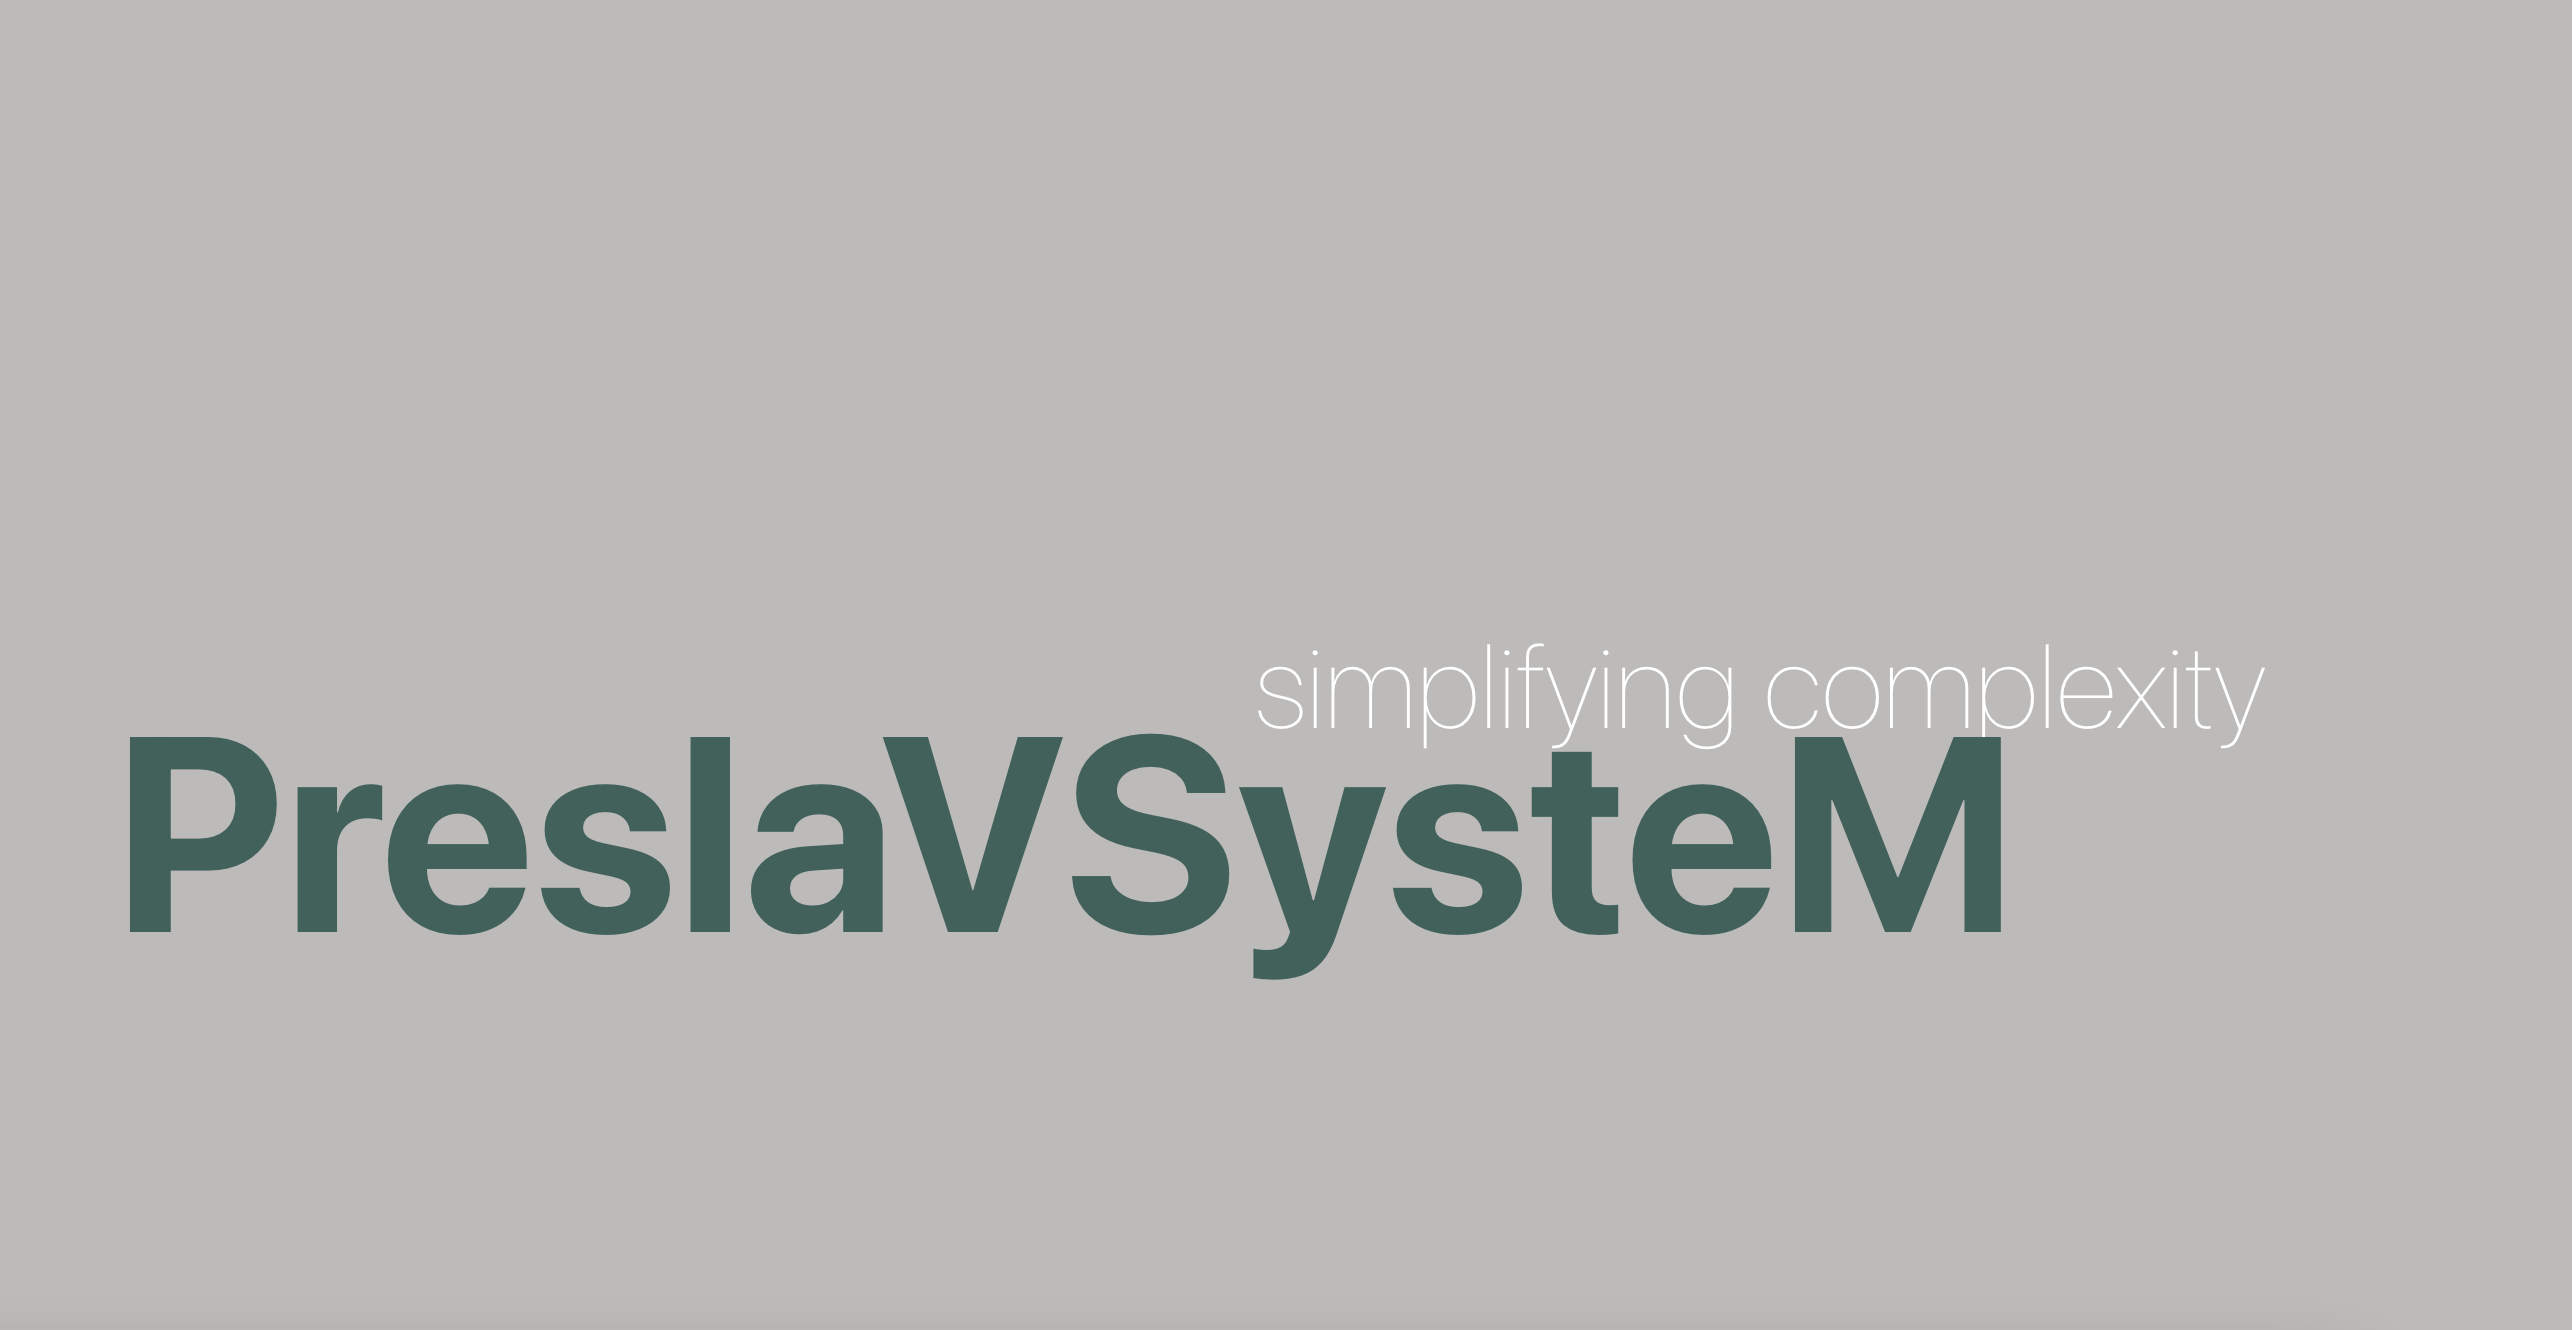
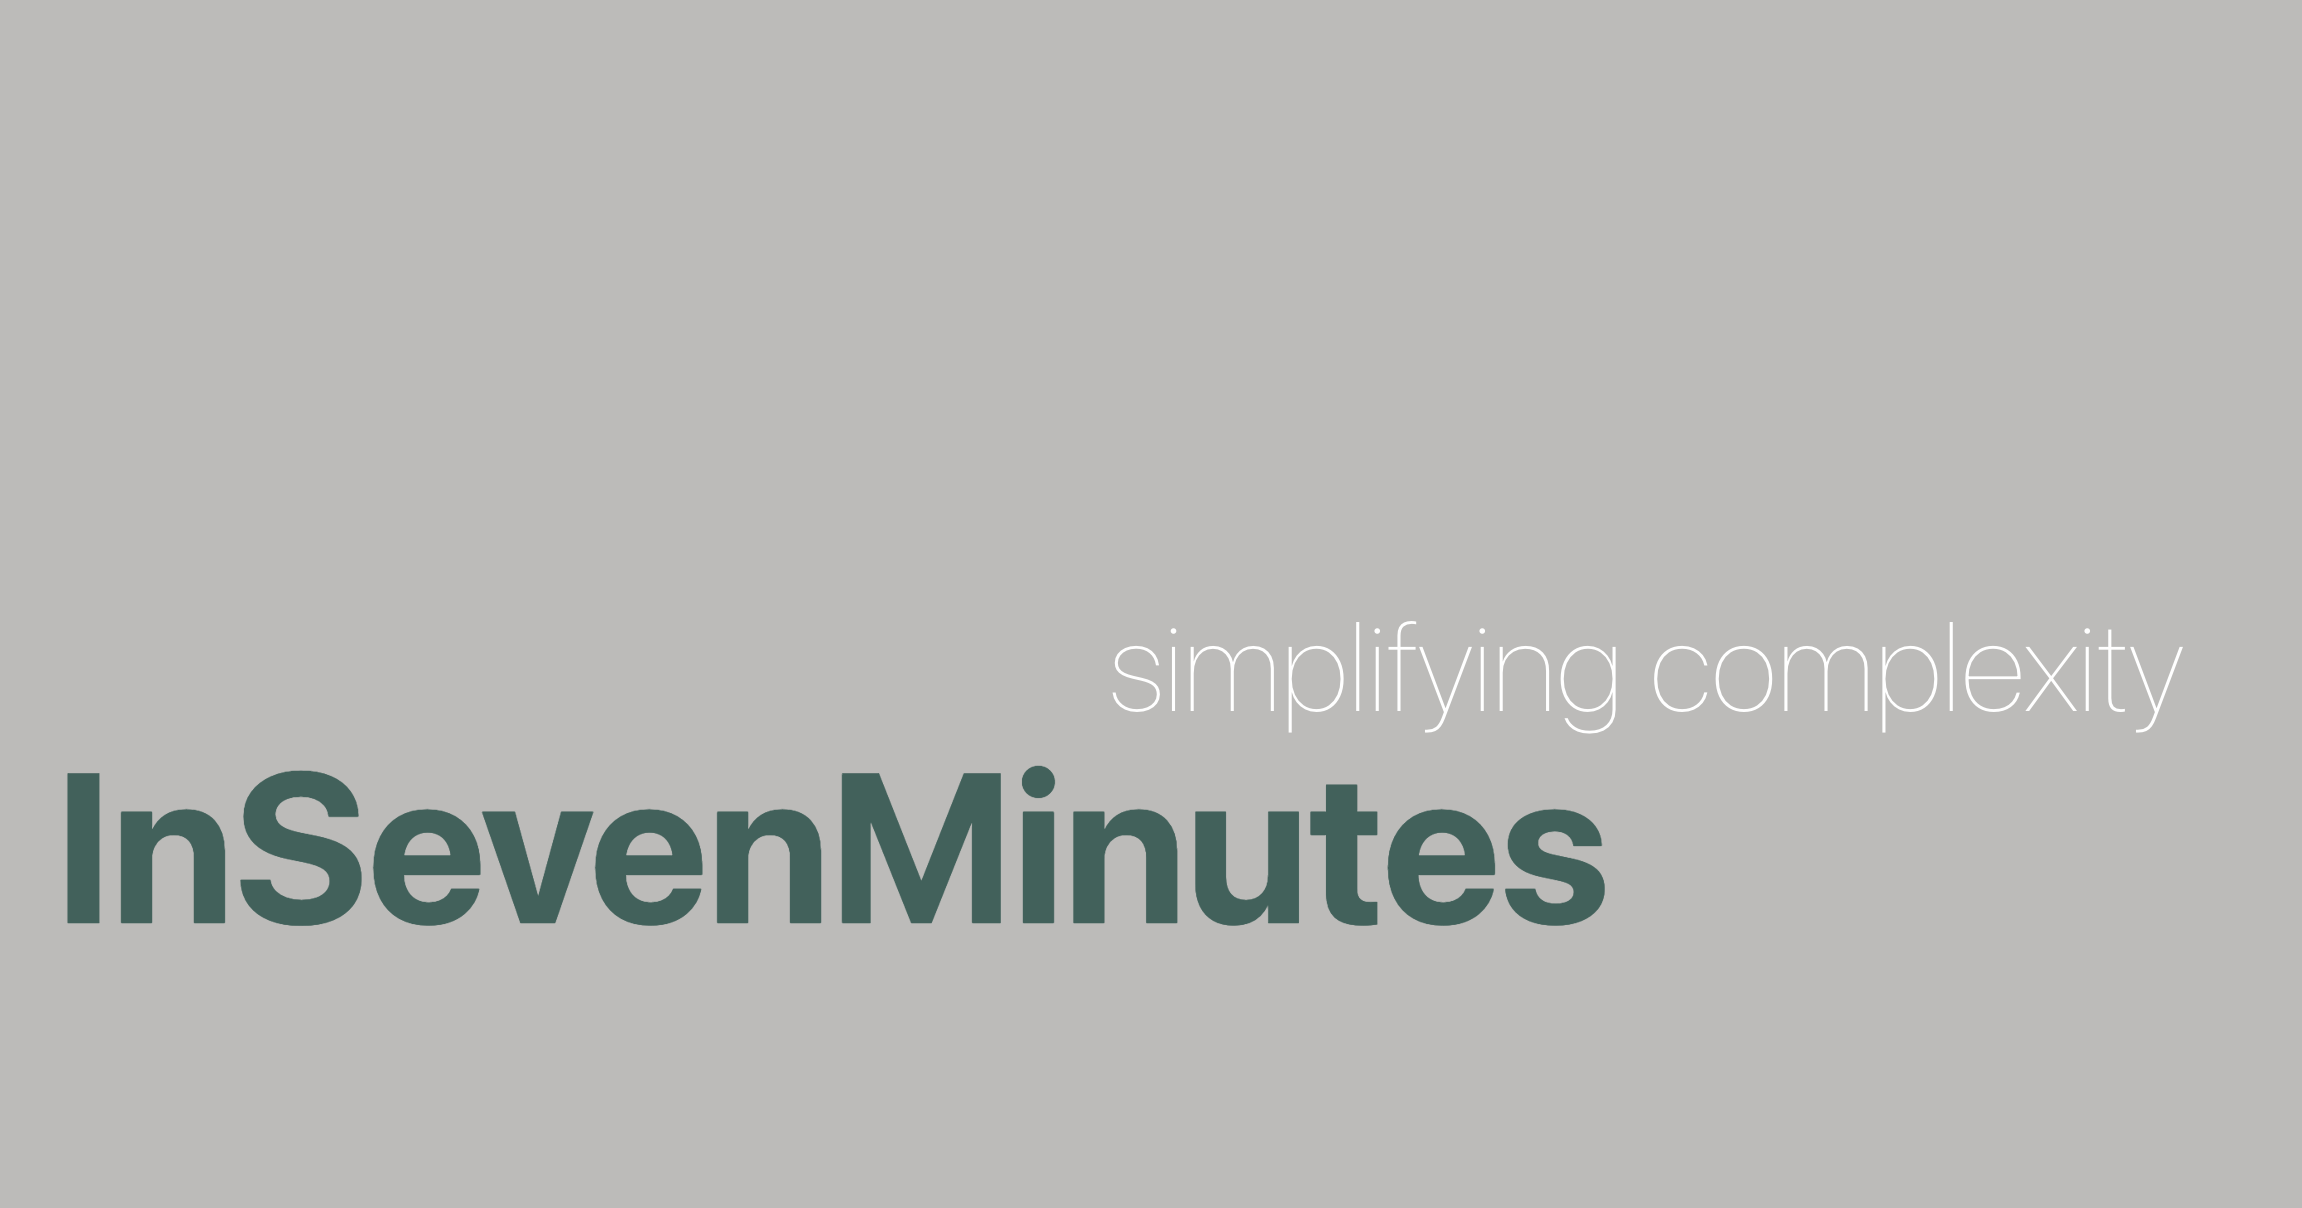
about work

Changed region(s): [[0.0308, 0.4901, 0.9561, 0.7657]]

diff --git a/src/components/About.js b/src/components/About.js
@@ -82,15 +82,15 @@ const About = () => (
                 <h2>Technologies I am using</h2>
                 <UL>
                     <li>MacOS 12.6 </li>
-                    <li>Git and GitHub</li>
-                    <li>PostgreSQL 15, MongoDB 6.0, Mongosh, H2</li>
-                    <li>PyTest, Jest, Cypress, JUnit 5</li>       
+                    <li>PyTest, Jest, Cypress, JUnit 5</li>   
+                    <li>PostgreSQL 15, MongoDB 6.0, H2 2.1.214</li>
                     <li>SQL, Python 3.10, JavaScript 18, Java 19</li>
                     <li>Flask 2.2.2, Express 4.18.1, Spring Boot 3.0</li>              
                     <li>HTML5, CSS3, Jinja2, Framer-motion, React 18</li>         
-                       
-                   
-                    <li>Visual Studio Code 1.72, Intellij IDEA 2022</li>                  
+                    <li>Visual Studio Code 1.72, Intellij IDEA 2022</li>  
+                    <li>Git, GitHub</li>
+                    <li>EC2, RDS, S3</li> 
+                    <li>CircleCI </li>              
                 </UL>
               </DivImg>
             <DivText>

diff --git a/src/components/Work.js b/src/components/Work.js
@@ -90,7 +90,7 @@ const Work = () => (
     <Div>
             <DivText1>
           
-                <H>PreslaVSystemAPI</H> 
+                <H>InSevenMinutesAPI</H> 
                 {/* <h3>Simplify learning and gives confidence to its users</h3> */}
                 <h3>
                    Tools and technologies used</h3>
@@ -108,7 +108,7 @@ const Work = () => (
 
             <DivText2>
           
-          <H>PreslaVSystemClient</H> 
+          <H>InSevenMinutesClient</H> 
           {/* <h3>Simplify learning and gives confidence to its users</h3> */}
           <h3>
              Tools and technologies used</h3>
